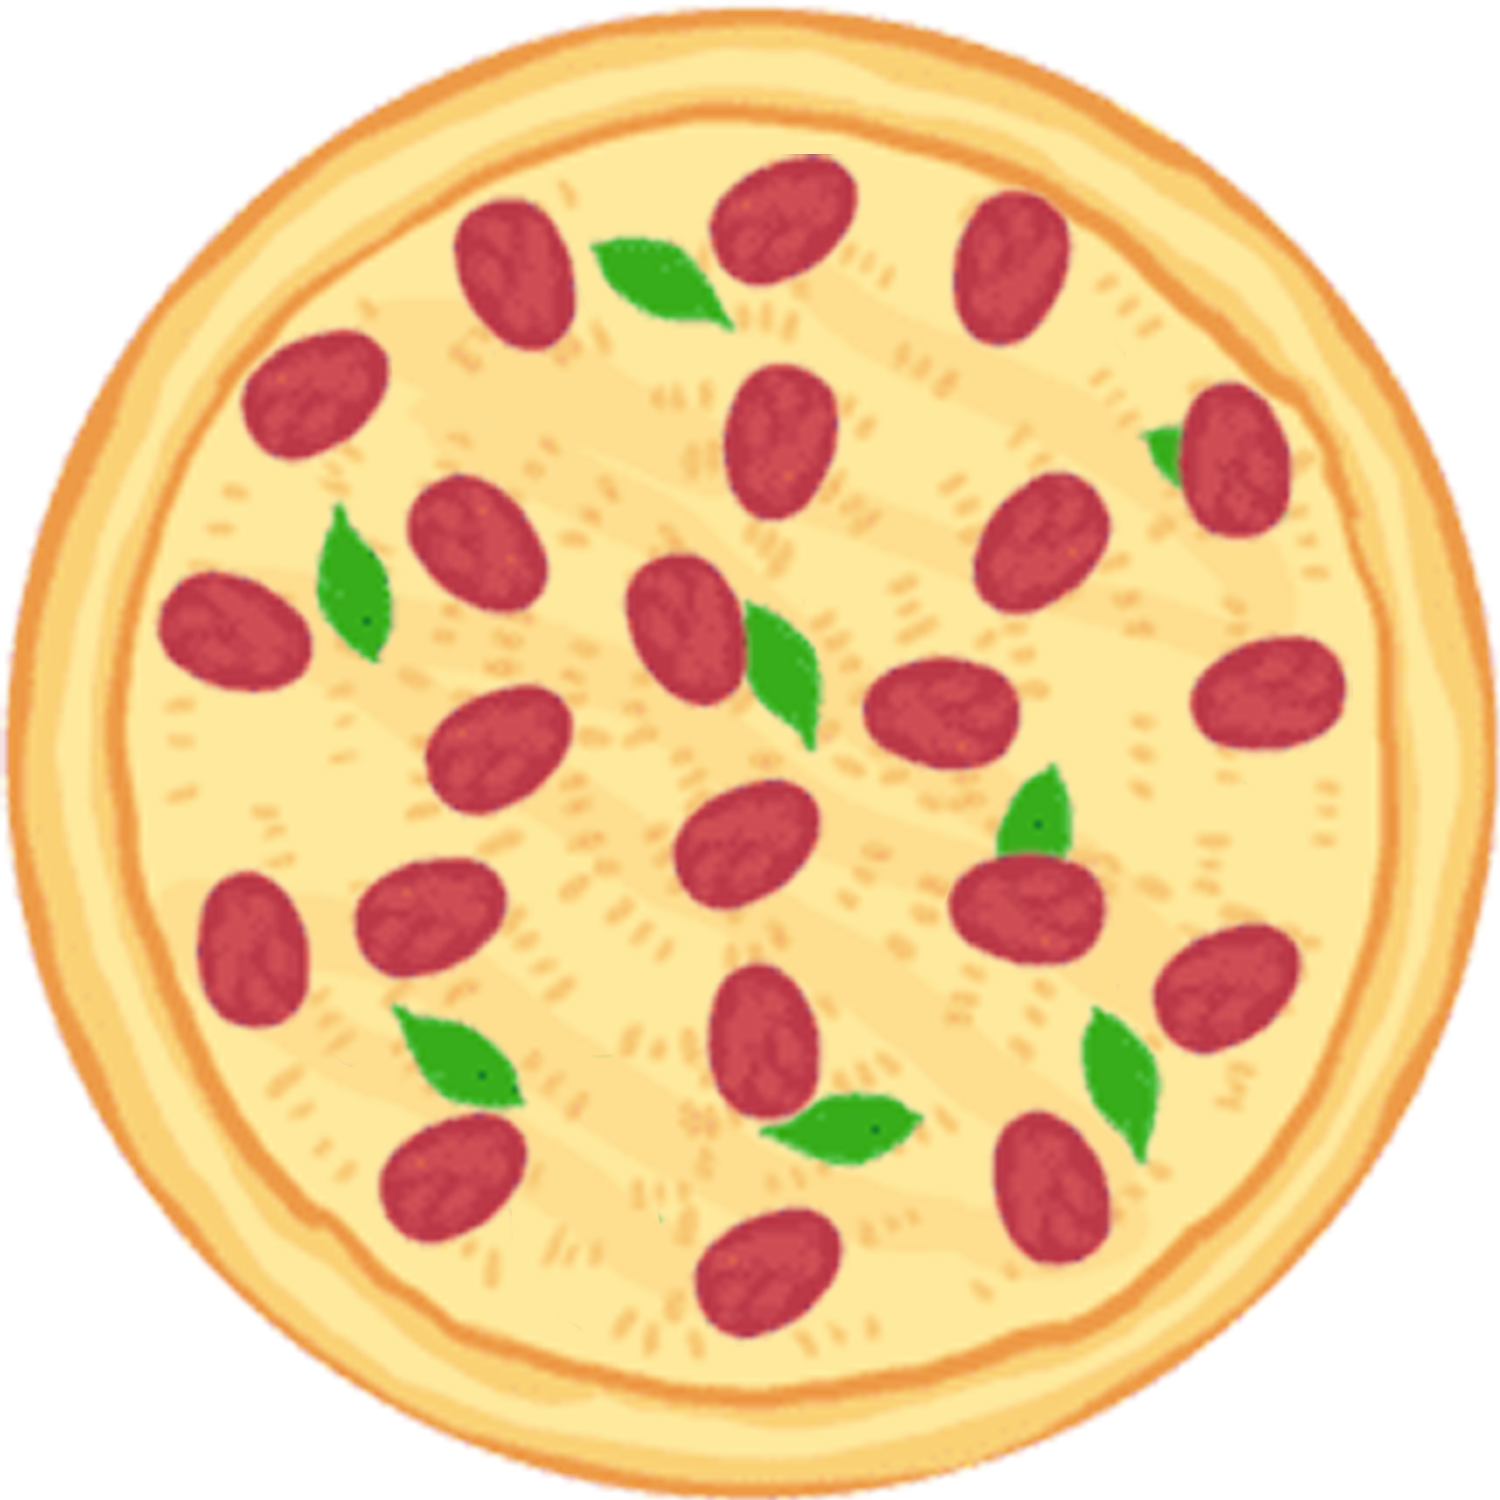
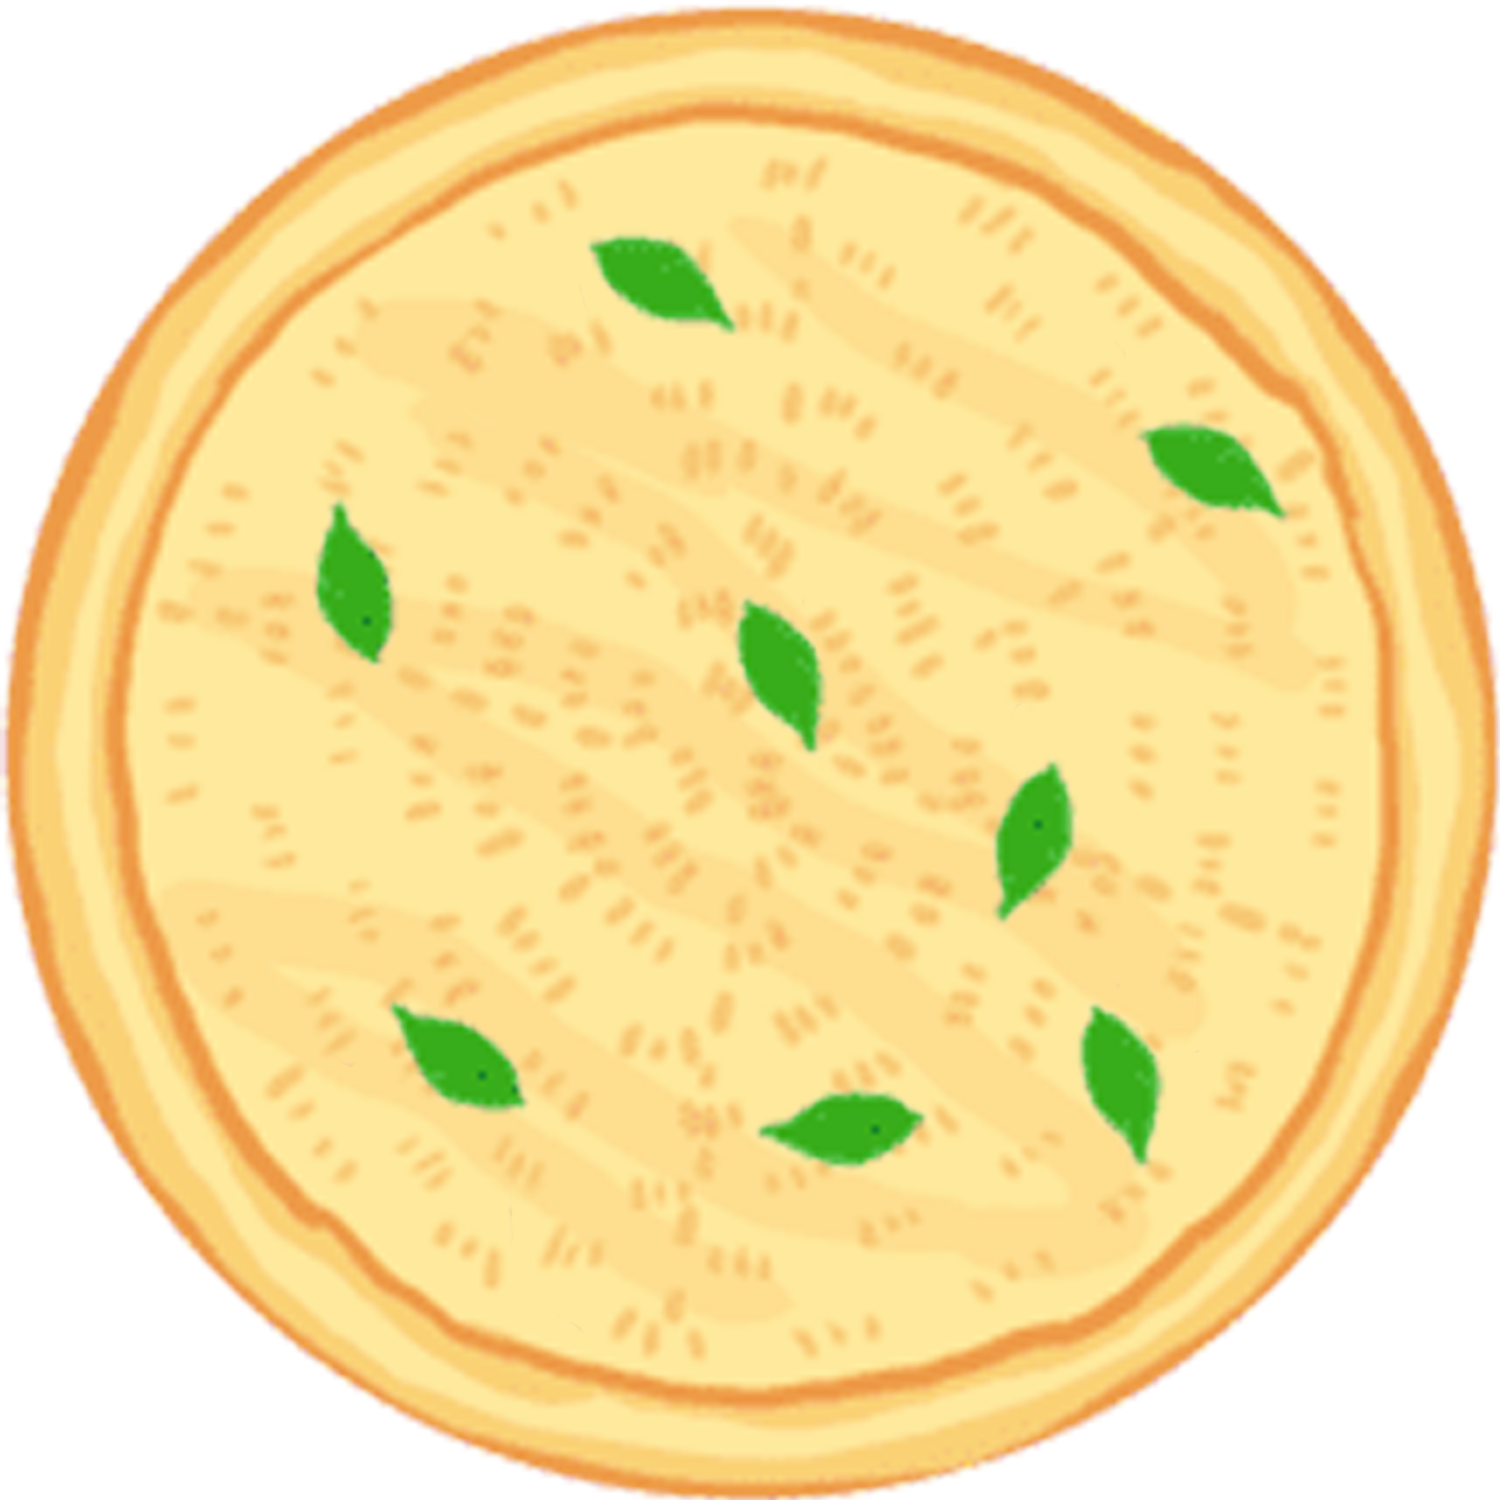
Update pizza image dynamically as user selects toppings

diff --git a/Controllers/PizzaAssociationsController.cs b/Controllers/PizzaAssociationsController.cs
@@ -53,6 +53,19 @@ namespace PizzaStore.Controllers
         public IActionResult Create()
         {
             ViewBag.AvailableToppings = _context.Toppings.ToList();
+            Pizza currentPizza = _context.Pizzas.OrderBy(p => p.Id).LastOrDefault();
+            ViewBag.CurrentPizza = currentPizza;
+
+            List<PizzaAssociation> relevantAssociations = _context.pizzaAssociations.Where(p => p.PizzaId == currentPizza.Id).ToList();
+
+            List<Topping> currentlySelectedToppings = new List<Topping>();
+
+            foreach(PizzaAssociation pa in relevantAssociations)
+            {
+                currentlySelectedToppings.Add(_context.Toppings.FirstOrDefault(t => t.Id == pa.ToppingId));
+            }
+
+            ViewBag.SelectedToppings = currentlySelectedToppings;
 
             ViewData["PizzaId"] = new SelectList(_context.Pizzas, "Id", "Name");
             ViewData["ToppingId"] = new SelectList(_context.Toppings, "Id", "Name");
@@ -66,33 +79,77 @@ namespace PizzaStore.Controllers
         [ValidateAntiForgeryToken]
         public async Task<IActionResult> Create([Bind("ToppingId")] PizzaAssociation pizzaAssociation, int[] selectedToppingIDs)
         {
-            //PizzaId,
+
             pizzaAssociation.PizzaId = _context.Pizzas.OrderBy(p => p.Id).Last().Id;
 
+            System.Diagnostics.Debug.WriteLine("Available Toppings: ");
+            foreach (Topping topping in await _context.Toppings.ToListAsync())
+            {
+                System.Diagnostics.Debug.WriteLine(topping.Id);
+            }
+
+            System.Diagnostics.Debug.WriteLine("Selected Toppings: ");
             foreach (int selectedToppingID in selectedToppingIDs)
             {
                 System.Diagnostics.Debug.WriteLine(selectedToppingID);
             }
-            
 
             if (ModelState.IsValid)
             {
-                foreach(int selectedToppingID in selectedToppingIDs)
+                List<Topping> toppingsToRemove = _context.Toppings.ToList();
+
+                List<int> toppingIdsToRemove = new List<int>();
+
+                foreach (Topping t in toppingsToRemove)
                 {
+                    if (!selectedToppingIDs.Contains(t.Id))
+                    {
+                        toppingIdsToRemove.Add(t.Id);
+                    }
+                }
+
+                System.Diagnostics.Debug.WriteLine("Toppings to remove: ");
+                foreach (int id in toppingIdsToRemove)
+                {
+
+                    System.Diagnostics.Debug.WriteLine(id);
+                }
+
+                //Remove the toppings we no longer want
+                var getToppingsToRemoveFromDb = _context.pizzaAssociations.Where(pa => toppingIdsToRemove.Contains(pa.ToppingId));
+
+                _context.RemoveRange(getToppingsToRemoveFromDb);
+                await _context.SaveChangesAsync();
+
+
+                System.Diagnostics.Debug.WriteLine("Toppings to add / keep: ");
+                foreach (int selectedToppingID in selectedToppingIDs)
+                {
+                    System.Diagnostics.Debug.WriteLine(selectedToppingID);
                     PizzaAssociation PA = new PizzaAssociation { 
                         PizzaId = pizzaAssociation.PizzaId, 
                         ToppingId = selectedToppingID, 
                         //We can use .First() here, as pizza and topping Ids are unique
                         //Not actually sure if this is necessary, but implemented it when trying to fix
                         //a different issue. Leaving it for now
-                        Pizza = _context.Pizzas.First(p => p.Id == pizzaAssociation.PizzaId), 
+                        Pizza = _context.Pizzas.First(p => p.Id == pizzaAssociation.PizzaId),
                         Topping = _context.Toppings.First(t => t.Id == selectedToppingID)
                     };
+
+                    if (!_context.pizzaAssociations.Contains(PA))
+                    {
+                        _context.Add(PA);
+                        await _context.SaveChangesAsync();
+                    }
+                    else
+                    {
+                        System.Diagnostics.Debug.WriteLine("Association exists, skipping");
+                    }
+
                     
-                    _context.Add(PA);
-                    await _context.SaveChangesAsync();
                 }
-                return RedirectToAction("AddToCart", "OrderAPizza", new { pizzaId = pizzaAssociation.PizzaId});
+                //return RedirectToAction("AddToCart", "OrderAPizza", new { pizzaId = pizzaAssociation.PizzaId });
+                return RedirectToAction("Create");
             }
 
             ViewData["PizzaId"] = new SelectList(_context.Pizzas, "Id", "Name", pizzaAssociation.PizzaId);

diff --git a/Controllers/PizzasController.cs b/Controllers/PizzasController.cs
@@ -62,10 +62,10 @@ namespace PizzaStore.Controllers
         // For more details, see http://go.microsoft.com/fwlink/?LinkId=317598.
         [HttpPost]
         [ValidateAntiForgeryToken]
-        public async Task<IActionResult> Create([Bind("Id,DoughType,CheeseType")] Pizza pizza)
+        public async Task<IActionResult> Create([Bind("Name,Id,DoughType,CheeseType")] Pizza pizza)
         {
             if (ModelState.IsValid)
-            { //,IsVegan,ImagePath, Calories,
+            {
 
                 if(pizza.Name == null) //Set a default name if the user chooses not to add one
                 {
@@ -106,7 +106,7 @@ namespace PizzaStore.Controllers
 
                 _context.Add(pizza);
                 await _context.SaveChangesAsync();
-                return RedirectToAction("Create", "PizzaAssociations");
+                return RedirectToAction("Create", "PizzaAssociations", new {Pizza = pizza});
             }
             return View(pizza);
         }
